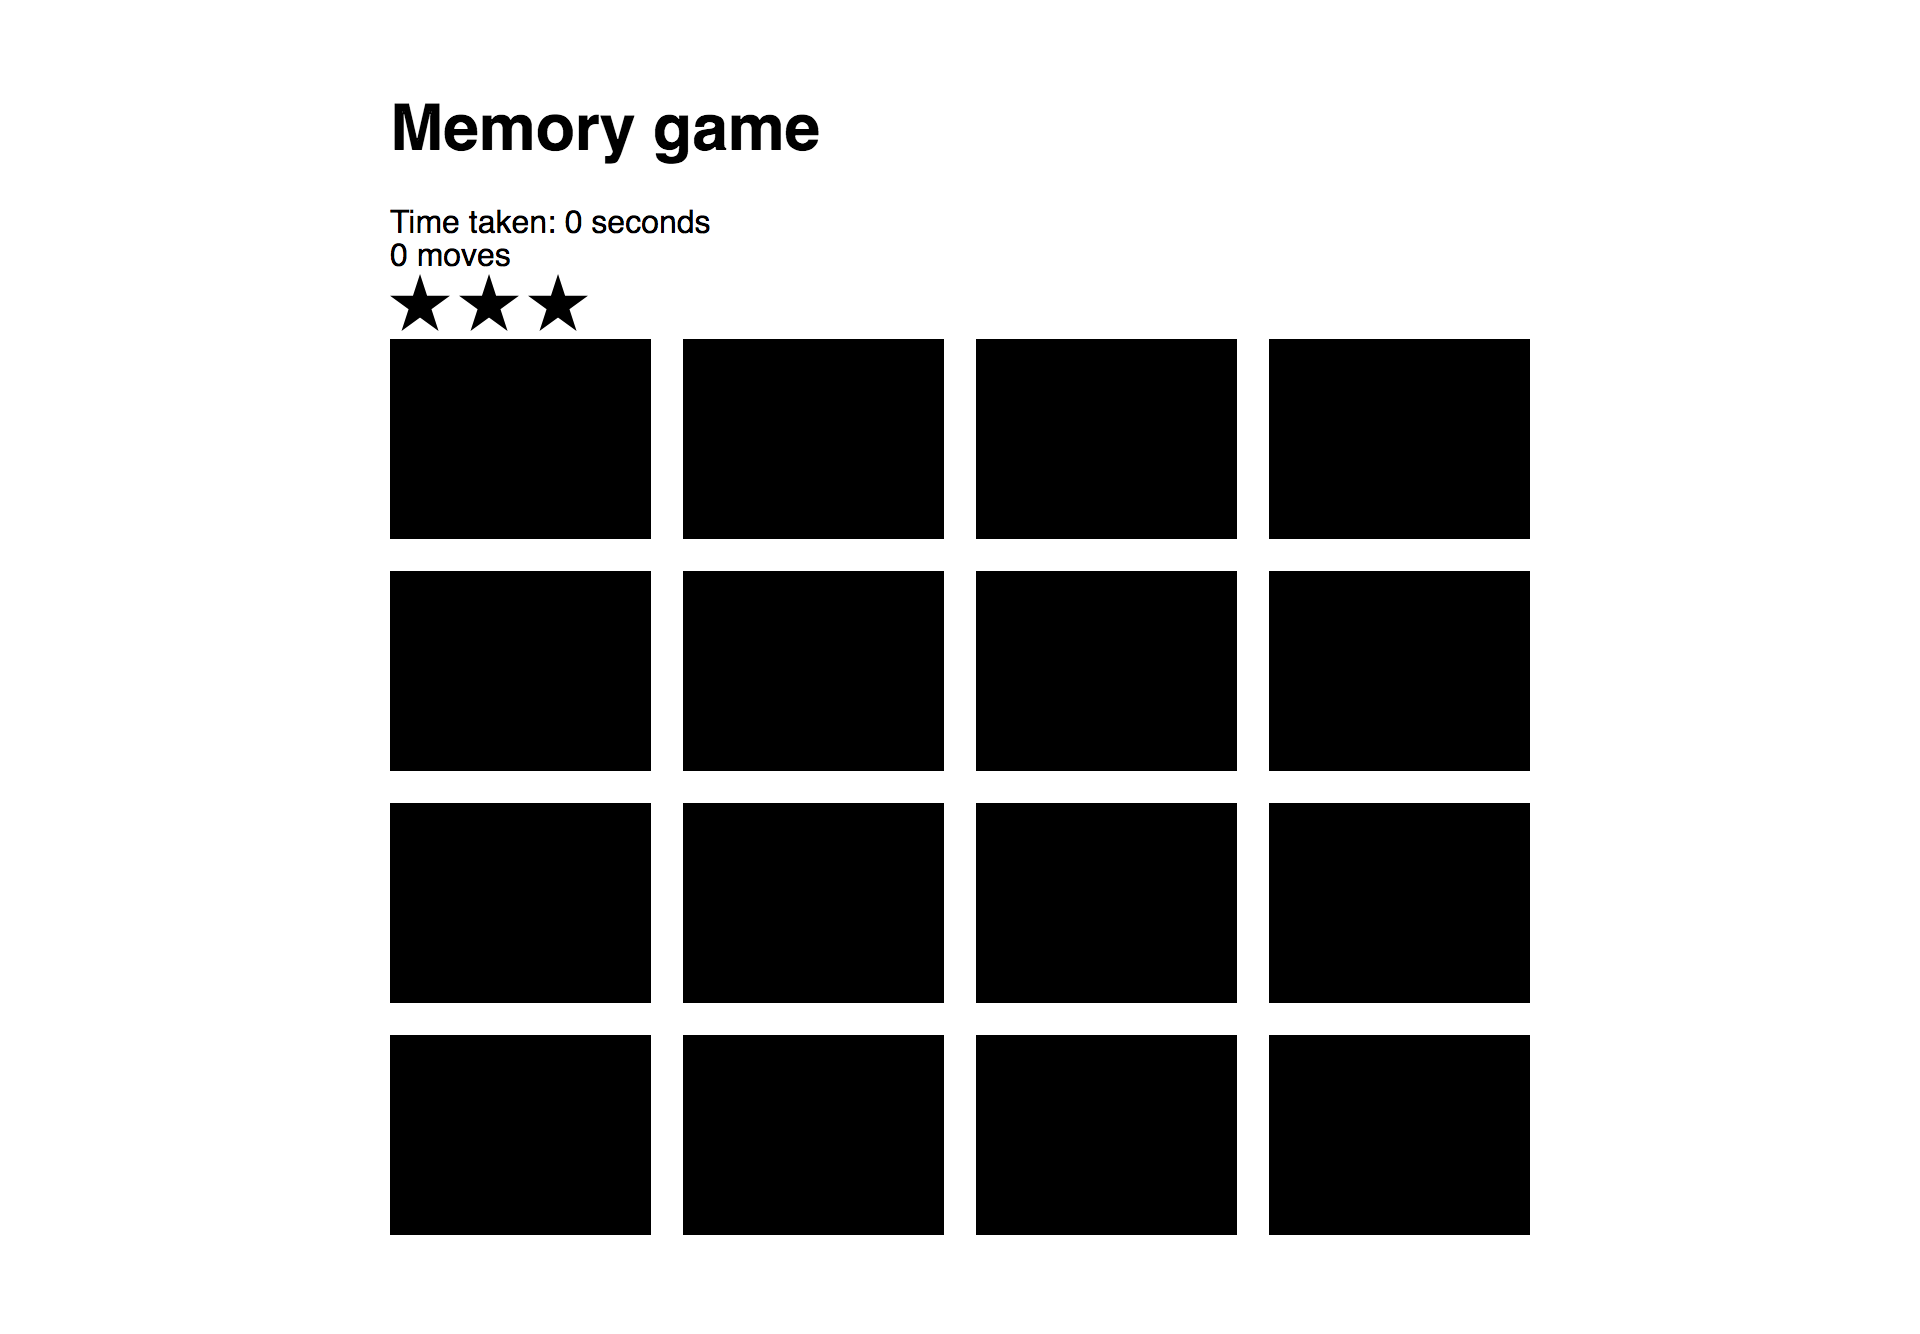
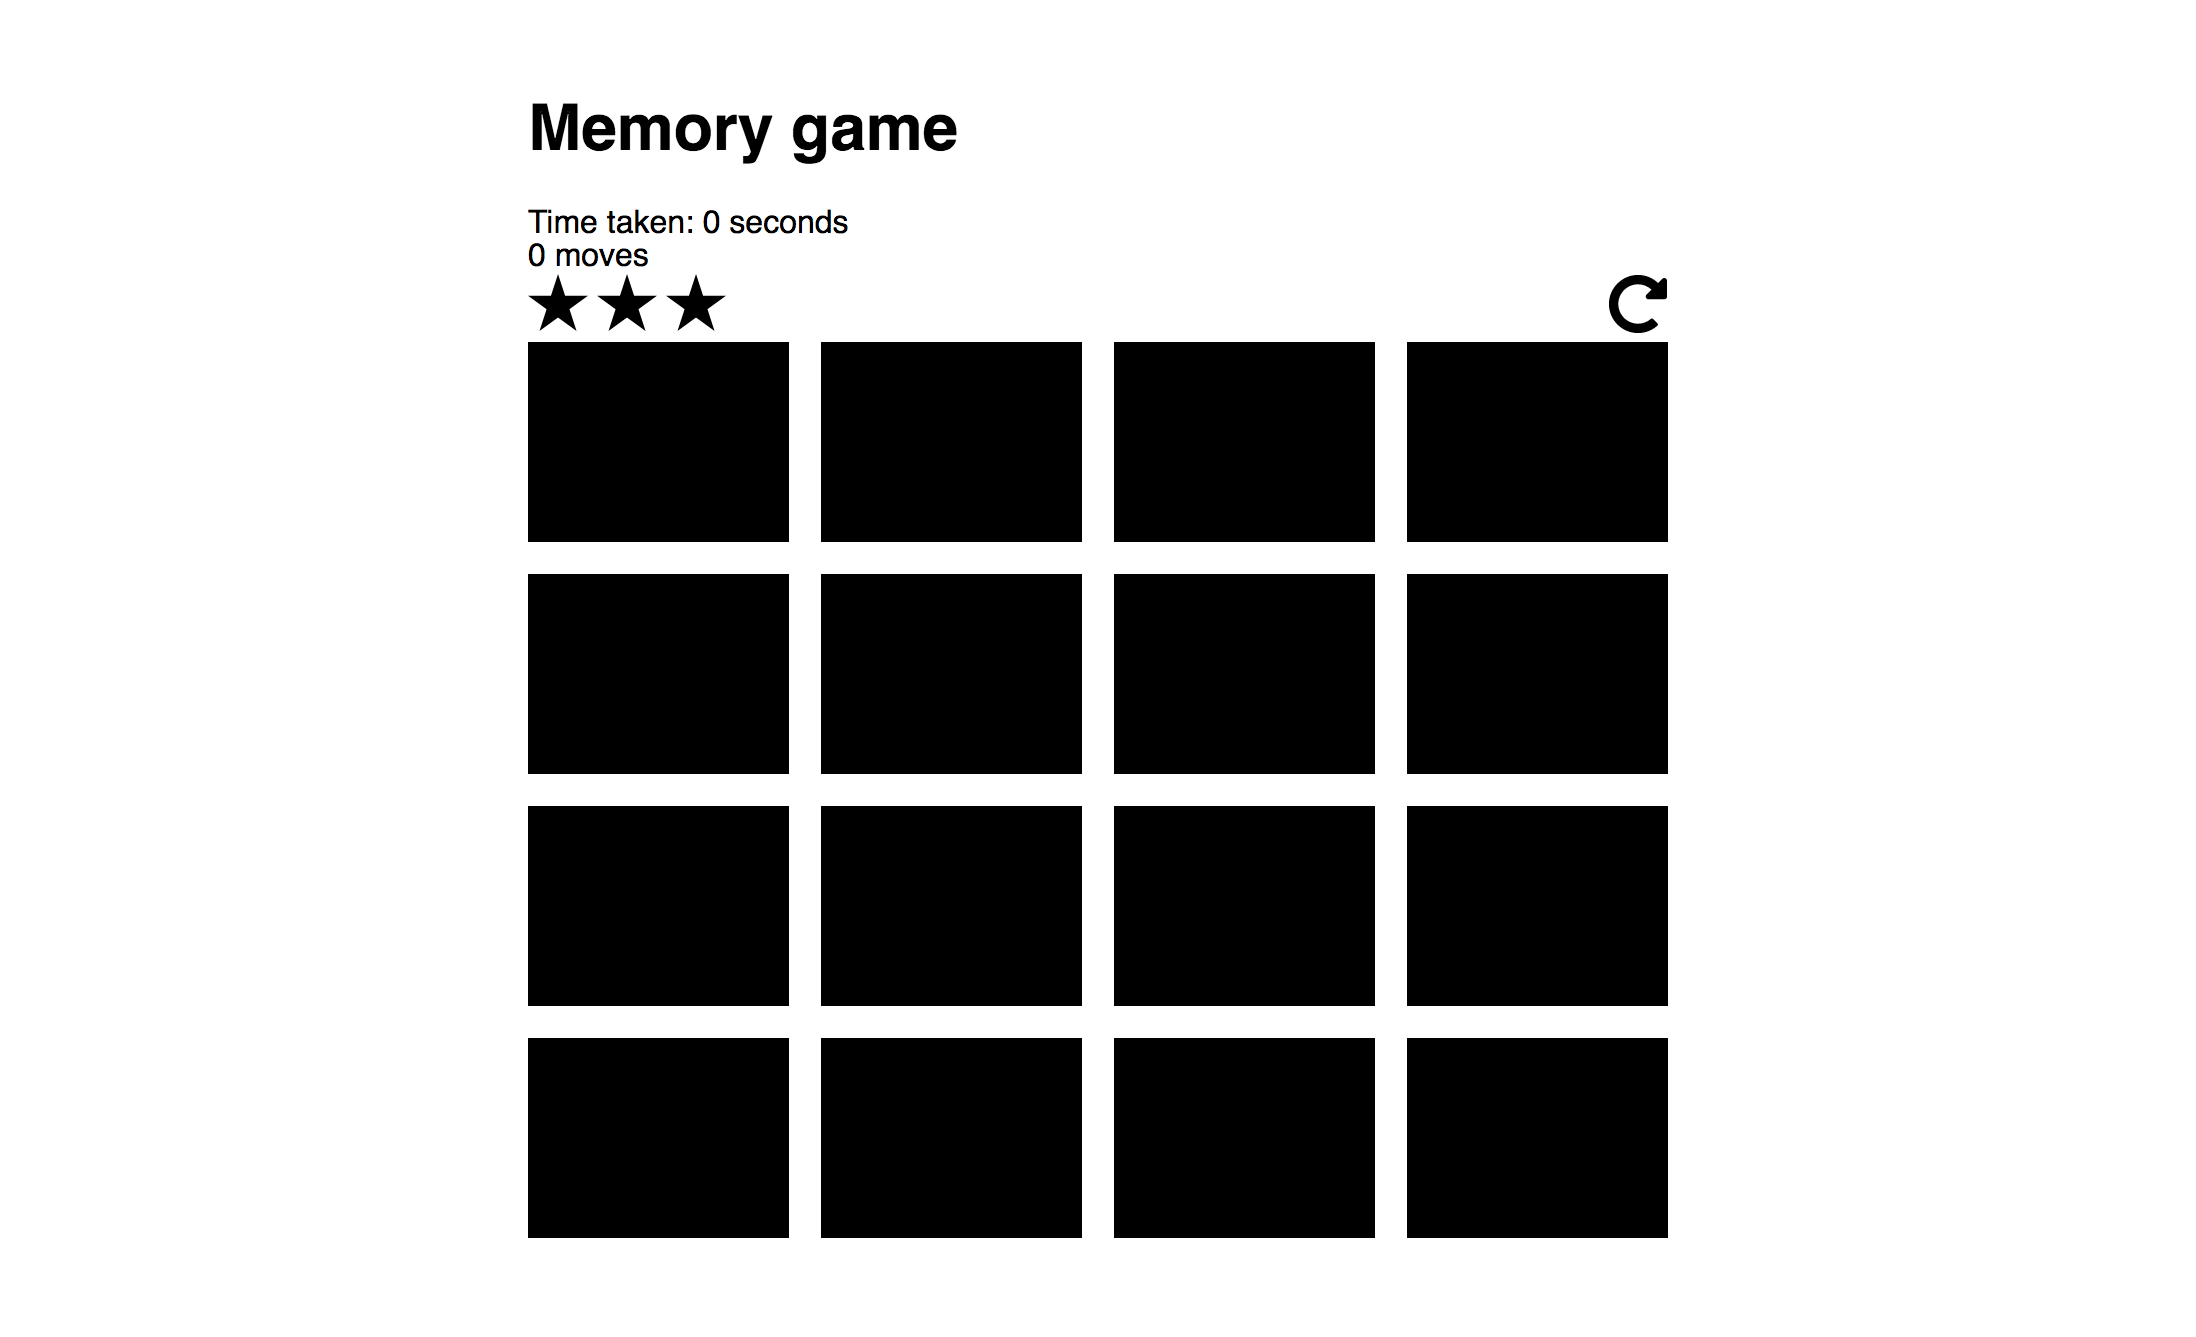
feat: Restart game

diff --git a/js/designs.js b/js/designs.js
@@ -21,6 +21,9 @@ document.addEventListener("DOMContentLoaded", function() {
   const grid_wrapper = document.querySelector(".wrapper");
   grid_wrapper.addEventListener("click", hide_or_showLogo);
   // grid_wrapper.addEventListener("click", timer);
+
+  const restart = document.querySelector("#restart");
+  restart.addEventListener("click", restartGame);
 });
 
 function addImagesToDiv(images) {
@@ -184,7 +187,6 @@ function correctGuess(card1, card2) {
     // the game is won
     if (correct_guesses == num_unique_cards) {
       console.log("You have won the game");
-      const star_rating = document.querySelector("#stars").innerHTML;
       const message =
         "You have won the game!\nIt took you " +
         seconds_elapsed +
@@ -196,38 +198,7 @@ function correctGuess(card1, card2) {
       const response = window.confirm(message);
       console.log(response);
       if (response) {
-        // restart the game
-
-        // reset timer
-        clearInterval(intervalID);
-        seconds_elapsed = 0;
-        document.querySelector("#timer").innerHTML = seconds_elapsed;
-        // make sure the timer is restarted
-        timer_started = false;
-
-        // reset number of moves
-        moves = 0;
-        document.querySelector("#moves").innerHTML = 0;
-
-        // reset stars
-        stars = 3;
-        const allStars = document.querySelectorAll(".star");
-        allStars.forEach(function enableVisibility(star) {
-          star.style.visibility = "visible";
-        });
-
-        const all_cards = document.querySelectorAll(".card");
-        all_cards.forEach(function(card, index) {
-          if (index < 4) {
-            console.log(card);
-            hideLogo(card.firstElementChild);
-          }
-        });
-        correct_guesses = 0;
-        removeImagesFromDiv();
-        let randomized_img_tags = [];
-        randomized_img_tags = shuffle(createImageTags());
-        addImagesToDiv(randomized_img_tags);
+        restartGame();
       } else {
         // user does not want to play again
         clearInterval(intervalID);
@@ -243,6 +214,41 @@ function correctGuess(card1, card2) {
     // hideLogo(card2);
     console.log("you guessed wrong");
   }
+}
+
+function restartGame() {
+  // restart the game
+
+  // reset timer
+  clearInterval(intervalID);
+  seconds_elapsed = 0;
+  document.querySelector("#timer").innerHTML = seconds_elapsed;
+  // make sure the timer is restarted
+  timer_started = false;
+
+  // reset number of moves
+  moves = 0;
+  document.querySelector("#moves").innerHTML = 0;
+
+  // reset stars
+  stars = 3;
+  const allStars = document.querySelectorAll(".star");
+  allStars.forEach(function enableVisibility(star) {
+    star.style.visibility = "visible";
+  });
+
+  const all_cards = document.querySelectorAll(".card");
+  all_cards.forEach(function(card, index) {
+    if (index < 4) {
+      console.log(card);
+      hideLogo(card.firstElementChild);
+    }
+  });
+  correct_guesses = 0;
+  removeImagesFromDiv();
+  let randomized_img_tags = [];
+  randomized_img_tags = shuffle(createImageTags());
+  addImagesToDiv(randomized_img_tags);
 }
 
 function preventClick(card1, card2) {

diff --git a/index.html b/index.html
@@ -12,14 +12,19 @@
 <body>
 	<div class="container">
 		<h1 class="title">Memory game</h1>
-		<div>Time taken:
-			<span id="timer">0</span> seconds</div>
-		<div>
-			<span id="moves">0</span> moves</div>
-		<div id="stars">
-			<img src="img/star.svg" class="star" id="star1" alt="star">
-			<img src="img/star.svg" class="star" id="star2" alt="star">
-			<img src="img/star.svg" class="star" id="star3" alt="star">
+		<div class="info-container">
+			<div>Time taken:
+				<span id="timer">0</span> seconds</div>
+			<div class="num-moves">
+				<span id="moves">0</span> moves</div>
+			<div class="stars">
+				<img src="img/star.svg" class="star" id="star1" alt="star">
+				<img src="img/star.svg" class="star" id="star2" alt="star">
+				<img src="img/star.svg" class="star" id="star3" alt="star">
+			</div>
+			<div id="restart">
+				<img src="img/restart.svg" alt="restart">
+			</div>
 		</div>
 		<div class="wrapper">
 			<div class="card"></div>

diff --git a/css/main.css b/css/main.css
@@ -7,6 +7,12 @@ body {
   max-width: 570px;
   margin: 50px auto;
 }
+
+.info-container {
+  display: grid;
+  grid-template-columns: 2fr 1fr;
+}
+
 .wrapper {
   display: grid;
   /* 4 equal width grid track */
@@ -34,6 +40,15 @@ body {
   visibility: visible;
 }
 
+#restart {
+  width: 30px;
+  grid-column-start: 3;
+}
+
+.num-moves, .stars {
+  grid-column-start: 1;
+}
+
 /* -------- Responsive Design Section ----------- */
 @media screen and (max-width: 330px) {
   .wrapper {
@@ -55,6 +70,9 @@ body {
     visibility: visible;
   }
 
+  #restart {
+    width: 20px;
+  }
   .title {
     font-size: 1em;
   }
@@ -80,6 +98,9 @@ body {
     visibility: visible;
   }
 
+  #restart {
+    width: 20px;
+  }
   .title {
     font-size: 1.5em;
   }
